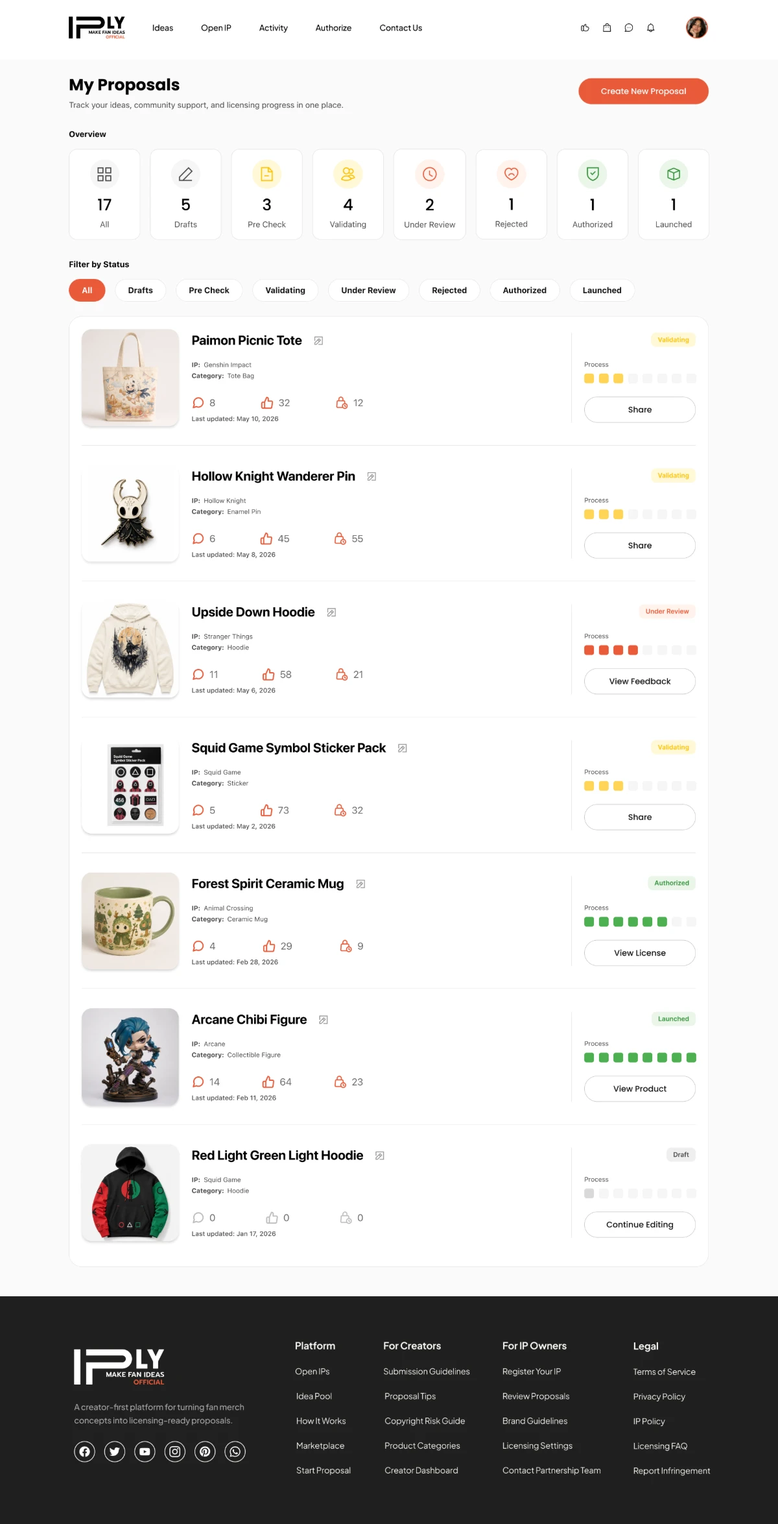
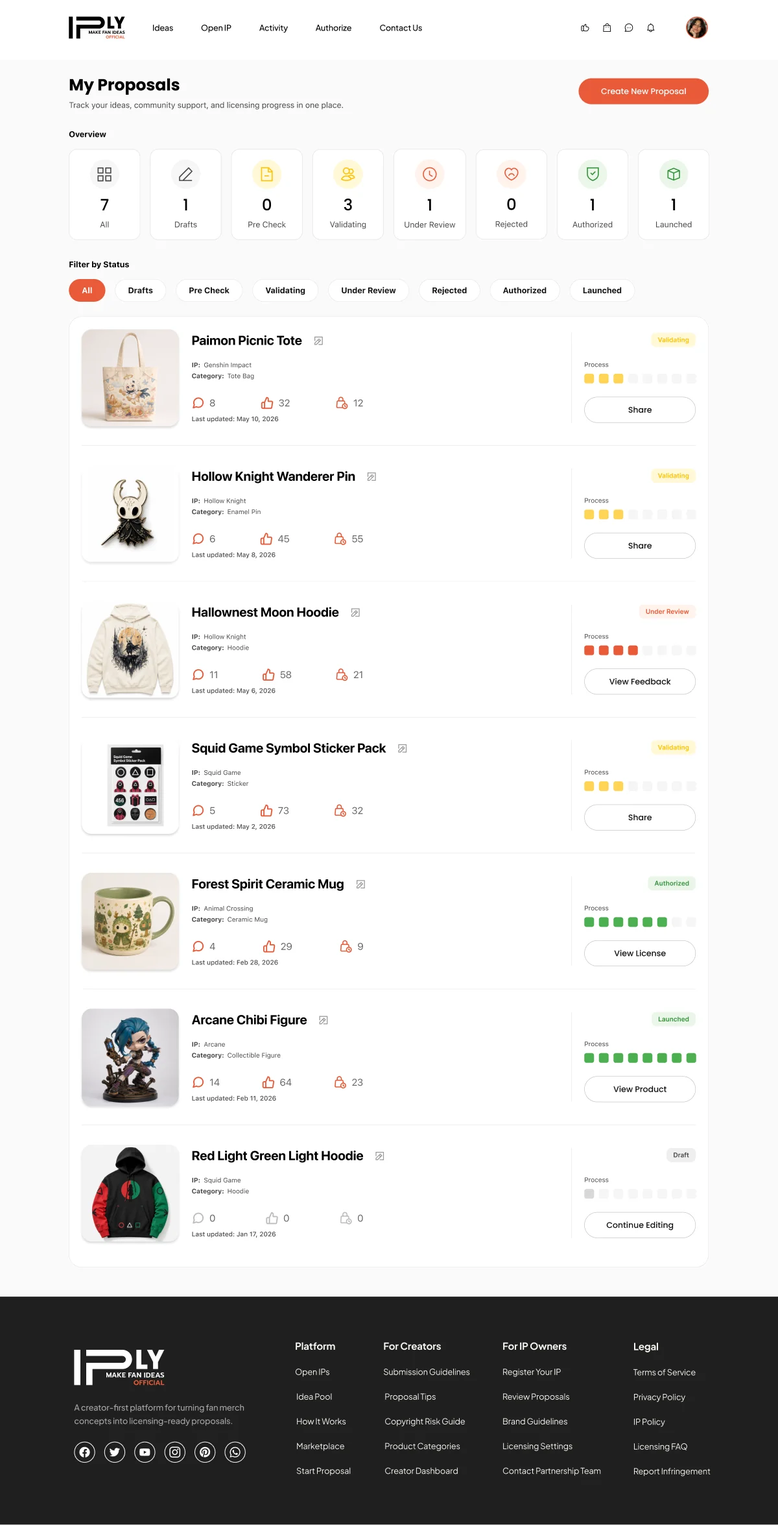
IPLY case study: creator landing and sign-up steps 2-3; boards re-exported after Figma text fixes

diff --git a/works/iply.html b/works/iply.html
@@ -12,7 +12,7 @@
 <meta property="og:url" content="https://weizhao-design.github.io/works/iply.html"><meta name="twitter:card" content="summary_large_image">
 <link rel="icon" id="wz-fav" href="../assets/favicon-dark.png?v=1" type="image/png"><link rel="apple-touch-icon" href="../assets/apple-touch-icon.png?v=1">
 <link rel="preload" href="../assets/fonts/cousine-400.woff2" as="font" type="font/woff2" crossorigin>
-<link rel="stylesheet" href="../assets/site.css?v=1794960000">
+<link rel="stylesheet" href="../assets/site.css?v=1794899200">
 <script>
 (function(){var d=document.documentElement,l='zh',th='dark';
 try{var q=new URLSearchParams(location.search).get('lang');if(q==='en'||q==='zh')localStorage.setItem('wz-lang',q);l=q||localStorage.getItem('wz-lang')||(/^zh/i.test(navigator.language||'')?'zh':'en');th=localStorage.getItem('wz-theme')||'dark';}catch(e){}
@@ -38,7 +38,7 @@ try{if(!sessionStorage.getItem('wz-loaded')&&!matchMedia('(prefers-reduced-motio
 <main class="project">
   <section class="meta"><div class="m-row"><span><span class="l-zh" lang="zh-Hans-CN">项目类型</span><span class="l-en" lang="en">Project type</span></span><span class="span2"><span class="l-zh" lang="zh-Hans-CN">平台产品策略项目</span><span class="l-en" lang="en">Platform product strategy</span></span></div><div class="m-row"><span><span class="l-zh" lang="zh-Hans-CN">项目名称</span><span class="l-en" lang="en">Project name</span></span><span class="span2"><span class="l-zh" lang="zh-Hans-CN">IPLY｜IP 共创与授权平台</span><span class="l-en" lang="en">IPLY — IP Co-creation &amp; Licensing Platform</span></span></div><div class="m-row"><span><span class="l-zh" lang="zh-Hans-CN">分类</span><span class="l-en" lang="en">Category</span></span><span class="span2"><span class="tag">[<span class="l-zh" lang="zh-Hans-CN">产品策略</span><span class="l-en" lang="en">Product strategy</span>]</span><span class="tag">[<span class="l-zh" lang="zh-Hans-CN">交互设计</span><span class="l-en" lang="en">Interaction design</span>]</span><span class="tag">[<span class="l-zh" lang="zh-Hans-CN">IP 生态</span><span class="l-en" lang="en">IP ecosystem</span>]</span><span class="tag">[<span class="l-zh" lang="zh-Hans-CN">粉丝社区</span><span class="l-en" lang="en">Fandom</span>]</span></span></div><div class="m-row"><span><span class="l-zh" lang="zh-Hans-CN">时间</span><span class="l-en" lang="en">Date</span></span><span class="span2">05.2026</span></div></section>
   <div class="p-grid">
-    <div class="p-main"><figure class="fig"><img src="../images/iply/00-hero.webp?v=1794459648" width="1800" height="1012" alt=""></figure><div class="sec-head tldr"><span>00</span><span><span class="l-zh" lang="zh-Hans-CN">概要</span><span class="l-en" lang="en">Overview</span></span><span class="sec-text"><span class="l-zh" lang="zh-Hans-CN"><b>问题</b>：粉丝创作者有好点子却没有合法的变现途径，粉丝买不到“懂圈子”的周边，IP 方也很难在投产前知道粉丝真正想要什么。<br><b>洞察</b>：三方缺的是同一样东西——在生产之前就能被验证的需求信号。<br><b>方案</b>：创作者按 IP 方开放的品类提交周边提案，先过自动预检，再由社区点赞、评论和预售意向验证需求；达标后进入 IP 方审核与授权，生产上架后创作者拿版税。<br><b>我的角色</b>：3 人团队中负责研究与策略（市场测算、竞品、商业模式）、体验（用户流程、旅程图）、全部高保真界面与视觉；课程结束后，借助 AI 编程工具把高保真搭成可点击原型并补齐缺失页面。<br>3 类用户 · 5 步提案 · 8 阶段进度 · 26 个可点击页面 · <a class="u" href="#demo">直接试玩 ↓</a></span><span class="l-en" lang="en"><b>Problem</b>: fan creators have ideas but no legal way to sell them, fans can’t find merch that gets the fandom, and IP owners can’t tell what fans want before they produce.<br><b>Insight</b>: all three sides lack the same thing — a demand signal that is proven before anything is made.<br><b>Design</b>: creators propose merch in the categories an IP owner has opened, pass an automatic pre-check, and the community validates demand with picks, comments and pre-order intents; proposals that hit their goal go to the IP owner for review and licensing, and creators earn royalties once it ships.<br><b>My role</b>: in a team of three — research and strategy (market sizing, competitors, business model), experience (user flow, journey map), all hi-fi UI and visual design; after the course I used AI coding tools to turn the hi-fi into a clickable prototype and fill in the missing screens.<br>3 user groups · 5-step proposal · 8-stage tracker · 26 clickable pages · <a class="u" href="#demo">Try the prototype ↓</a></span></span></div><div class="sec-head"><span>01</span><span><span class="l-zh" lang="zh-Hans-CN">三方问题</span><span class="l-en" lang="en">A three-sided problem</span></span><span class="sec-text"><span class="l-zh" lang="zh-Hans-CN">粉丝创作者有创意也有受众，却没有合法、门槛低的商业化途径；粉丝想要懂圈子、做工好的周边，现有选择却多是非官方或粗制滥造；IP 方缺少低风险的方式开发粉丝真正想要的周边，非官方周边还在侵蚀授权收入。仅 2024 年，Etsy 就因知识产权问题下架了约 83.2 万件商品。</span><span class="l-en" lang="en">Fan creators have ideas and audiences but no legal, accessible way to sell IP-inspired merch. Fans want well-made merch that gets the fandom, yet most options are unofficial or low quality. IP owners lack a low-risk way to make what fans actually want, while unofficial merch eats into licensing revenue. In 2024 alone, Etsy removed about 832,000 listings over IP issues.</span></span></div><div class="figs figs-stack"><figure class="fig"><img class="l-zh" src="../images/iply/01-zh.webp?v=1794740993" width="1800" height="1012" alt="" loading="lazy" decoding="async"><img class="l-en" src="../images/iply/01.webp?v=1794740443" width="1800" height="1012" alt="" loading="lazy" decoding="async"></figure><figure class="fig"><img class="l-zh" src="../images/iply/02-zh.webp?v=1794740993" width="1800" height="1012" alt="" loading="lazy" decoding="async"><img class="l-en" src="../images/iply/02.webp?v=1794459639" width="1800" height="1012" alt="" loading="lazy" decoding="async"></figure><figure class="fig"><img class="l-zh" src="../images/iply/03-zh.webp?v=1794740993" width="1800" height="1012" alt="" loading="lazy" decoding="async"><img class="l-en" src="../images/iply/03.webp?v=1794459639" width="1800" height="1012" alt="" loading="lazy" decoding="async"></figure></div><div class="sec-head"><span>02</span><span><span class="l-zh" lang="zh-Hans-CN">市场与竞争</span><span class="l-en" lang="en">Market &amp; competition</span></span><span class="sec-text"><span class="l-zh" lang="zh-Hans-CN">全球授权商品与服务市场约 3,696 亿美元，其中娱乐 / 角色类约 1,498 亿美元（TAM）；聚焦北美娱乐 / 角色授权商品，SAM 约 871 亿美元；按 0.5% 的可获得份额估算，SOM 为 4.35 亿美元交易额，按 10% 佣金约 4,350 万美元平台收入。竞品中，官方商店授权程度高但创作空间小，Etsy、Redbubble、Behance / Pinterest 创作灵活却没有授权通道，IPLY 瞄准两者兼具的空白。</span><span class="l-en" lang="en">The global licensed merchandise and services market is about $369.6B, with entertainment and character IP at $149.8B (TAM). Focusing on North American entertainment and character merch gives a SAM of about $87.1B; a 0.5% obtainable share puts the SOM at $435M in GMV, or about $43.5M in platform revenue at a 10% commission. Official stores are fully licensed but leave little creative room, while Etsy, Redbubble and Behance / Pinterest are creative but offer no licensing path. IPLY targets the gap that has both.</span></span></div><div class="figs figs-stack"><figure class="fig"><img class="l-zh" src="../images/iply/market-tam-zh.webp?v=1794740993" width="1800" height="1012" alt="" loading="lazy" decoding="async"><img class="l-en" src="../images/iply/market-tam.webp?v=1794739453" width="1800" height="1012" alt="" loading="lazy" decoding="async"></figure><figure class="fig"><img class="l-zh" src="../images/iply/market-sam-zh.webp?v=1794740993" width="1800" height="1012" alt="" loading="lazy" decoding="async"><img class="l-en" src="../images/iply/market-sam.webp?v=1794739453" width="1800" height="1012" alt="" loading="lazy" decoding="async"></figure><figure class="fig"><img class="l-zh" src="../images/iply/04-zh.webp?v=1794740993" width="1800" height="1012" alt="" loading="lazy" decoding="async"><img class="l-en" src="../images/iply/04.webp?v=1794738741" width="1800" height="1012" alt="" loading="lazy" decoding="async"></figure><figure class="fig"><img class="l-zh" src="../images/iply/05-zh.webp?v=1794740993" width="1800" height="1012" alt="" loading="lazy" decoding="async"><img class="l-en" src="../images/iply/05.webp?v=1794738741" width="1800" height="1012" alt="" loading="lazy" decoding="async"></figure></div><div class="sec-head"><span>03</span><span><span class="l-zh" lang="zh-Hans-CN">机会与用户</span><span class="l-en" lang="en">Opportunity &amp; users</span></span><span class="sec-text"><span class="l-zh" lang="zh-Hans-CN">问卷由团队成员执行：72% 的受访粉丝有创作或分享同人设计的经验，85% 愿意把自己的设计变成官方授权周边。样本量没有记录，所以这里只作为初步信号。三个 persona 分别代表创作者、粉丝和 IP 方。</span><span class="l-en" lang="en">In a survey run by a teammate, 72% of fans had created or shared fan designs and 85% would turn their own designs into officially licensed merch. The sample size wasn’t recorded, so treat these as preliminary signals. The three personas represent the creator, the fan and the IP owner.</span></span></div><div class="figs figs-stack"><figure class="fig"><img class="l-zh" src="../images/iply/06-zh.webp?v=1794740993" width="1800" height="1012" alt="" loading="lazy" decoding="async"><img class="l-en" src="../images/iply/06.webp?v=1794459640" width="1800" height="1012" alt="" loading="lazy" decoding="async"></figure><figure class="fig"><img class="l-zh" src="../images/iply/survey-zh.webp?v=1794740993" width="1800" height="1012" alt="" loading="lazy" decoding="async"><img class="l-en" src="../images/iply/survey.webp?v=1794740443" width="1800" height="1012" alt="" loading="lazy" decoding="async"></figure><figure class="fig"><img class="l-zh" src="../images/iply/07-zh.webp?v=1794740993" width="1800" height="1012" alt="" loading="lazy" decoding="async"><img class="l-en" src="../images/iply/07.webp?v=1794738741" width="1800" height="1012" alt="" loading="lazy" decoding="async"></figure></div><div class="sec-head"><span>04</span><span><span class="l-zh" lang="zh-Hans-CN">产品策略与核心流程</span><span class="l-en" lang="en">Strategy &amp; core flow</span></span><span class="sec-text"><span class="l-zh" lang="zh-Hans-CN">构思 → 提交 → 社区验证 → IP 方授权 → 生产上架，五步把粉丝创意变成官方商品。最后一张是完整的 user flow：创作者与粉丝、IP 方两条主线，以及顶部导航、头像菜单和回到首页的方式（点击图片可放大）。</span><span class="l-en" lang="en">Ideate → submit → community validation → IP approval → production: five steps from fan idea to official product. The last figure maps the full user flow — the creator and fan path, the IP owner path, and the header, avatar menu and ways back to the home page (click to enlarge).</span></span></div><div class="figs figs-stack"><figure class="fig"><img class="l-zh" src="../images/iply/08-zh.webp?v=1794740993" width="1800" height="1012" alt="" loading="lazy" decoding="async"><img class="l-en" src="../images/iply/08.webp?v=1794459640" width="1800" height="1012" alt="" loading="lazy" decoding="async"></figure><figure class="fig"><img class="l-zh" src="../images/iply/09-zh.webp?v=1794740993" width="1800" height="1012" alt="" loading="lazy" decoding="async"><img class="l-en" src="../images/iply/09.webp?v=1794459641" width="1800" height="1012" alt="" loading="lazy" decoding="async"></figure><figure class="fig"><img class="l-zh" src="../images/iply/10-zh.webp?v=1794740993" width="1800" height="1012" alt="" loading="lazy" decoding="async"><img class="l-en" src="../images/iply/10.webp?v=1794459641" width="1800" height="1012" alt="" loading="lazy" decoding="async"></figure><figure class="fig"><img class="l-zh" src="../images/iply/11-zh.webp?v=1794740993" width="1800" height="1012" alt="" loading="lazy" decoding="async"><img class="l-en" src="../images/iply/11.webp?v=1794459641" width="1800" height="1012" alt="" loading="lazy" decoding="async"></figure><figure class="fig"><img class="l-zh" src="../images/iply/journey-map-zh.webp?v=1794740993" width="1800" height="1012" alt="" loading="lazy" decoding="async"><img class="l-en" src="../images/iply/journey-map.webp?v=1794739889" width="1800" height="1012" alt="" loading="lazy" decoding="async"></figure><figure class="fig zoom"><img class="l-zh" src="../images/iply/user-flow-zh.webp?v=1" width="3000" height="2166" alt="IPLY 用户流程：创作者与粉丝从首页、注册、Ideas 到五步创建提案、验证与审核的路径；IP 方从首页到审核队列，可批准、要求修改或拒绝；以及顶部导航、头像菜单和回到首页的方式" loading="lazy" decoding="async"><img class="l-en" src="../images/iply/user-flow.webp?v=2" width="3000" height="2166" alt="IPLY user flow: creator and fan path from landing page, sign-up and Ideas through the five-step proposal, validation and review; IP owner path from owner landing to the review queue with approve, request revision or decline; plus header, avatar menu and the ways back to the landing page" loading="lazy" decoding="async"></figure></div><div class="sec-head"><span>05</span><span><span class="l-zh" lang="zh-Hans-CN">高保真原型</span><span class="l-en" lang="en">High-fidelity prototype</span></span><span class="sec-text"><span class="l-zh" lang="zh-Hans-CN">高保真围绕创作者的主流程：注册 → 选择 IP → 选择品类并上传设计 → 在 Ideas 页接受社区的投票、收藏与评论 → 在 My Proposals 中追踪提案从草稿、预检、社区验证到授权上架的每一步状态。另外为 IP 方单独设计了落地页，主打「先看到粉丝需求，再决定授权什么」。最后四页是视觉设计：Logo、色彩与字体、UI 组件，以及商品卡片。</span><span class="l-en" lang="en">The hi-fi follows the creator’s main path: sign up → choose an IP → pick a product type and upload the design → gather votes, saves and comments on the Ideas page → track each proposal in My Proposals, from draft and pre-check through community validation to licensing and launch. A separate landing page for IP owners leads with fan demand: see what fans want before deciding what to license. The last four boards cover the visual design: logo, colour and typography, UI components, and the product card.</span></span></div><div class="figs figs-tall"><figure class="fig"><img src="../images/iply/12.webp?v=1794459642" width="1800" height="977" alt="" loading="lazy" decoding="async"></figure><figure class="fig"><img src="../images/iply/13.webp?v=1794738741" width="1800" height="2676" alt="" loading="lazy" decoding="async"></figure><figure class="fig"><img src="../images/iply/proposal-step2.webp?v=1794766573" width="1200" height="2101" alt="" loading="lazy" decoding="async"></figure><figure class="fig"><img src="../images/iply/proposal-step3.webp?v=1794766573" width="1200" height="1535" alt="" loading="lazy" decoding="async"></figure><figure class="fig"><img src="../images/iply/ideas.webp?v=1794766573" width="1200" height="1975" alt="" loading="lazy" decoding="async"></figure><figure class="fig"><img src="../images/iply/14.webp?v=1794738741" width="1200" height="2678" alt="" loading="lazy" decoding="async"></figure><figure class="fig"><img src="../images/iply/15.webp?v=1794738741" width="1200" height="2349" alt="" loading="lazy" decoding="async"></figure><figure class="fig"><img src="../images/iply/landing-ip-owner.webp?v=1794766573" width="1200" height="3428" alt="" loading="lazy" decoding="async"></figure></div><div class="figs figs-stack"><figure class="fig"><img class="l-zh" src="../images/iply/visual-logo-zh.webp?v=1794767985" width="1800" height="1012" alt="" loading="lazy" decoding="async"><img class="l-en" src="../images/iply/visual-logo.webp?v=1794767985" width="1800" height="1012" alt="" loading="lazy" decoding="async"></figure><figure class="fig"><img class="l-zh" src="../images/iply/visual-colour-type-zh.webp?v=1794767985" width="1800" height="1012" alt="" loading="lazy" decoding="async"><img class="l-en" src="../images/iply/visual-colour-type.webp?v=1794767985" width="1800" height="1012" alt="" loading="lazy" decoding="async"></figure><figure class="fig"><img class="l-zh" src="../images/iply/visual-components-zh.webp?v=1794767985" width="1800" height="1012" alt="" loading="lazy" decoding="async"><img class="l-en" src="../images/iply/visual-components.webp?v=1794767985" width="1800" height="1012" alt="" loading="lazy" decoding="async"></figure><figure class="fig"><img class="l-zh" src="../images/iply/visual-product-card-zh.webp?v=1794767985" width="1800" height="1012" alt="" loading="lazy" decoding="async"><img class="l-en" src="../images/iply/visual-product-card.webp?v=1794767985" width="1800" height="1012" alt="" loading="lazy" decoding="async"></figure></div><div class="sec-head" id="demo"><span>06</span><span><span class="l-zh" lang="zh-Hans-CN">可交互原型：试一试</span><span class="l-en" lang="en">Interactive prototype: try it</span></span><span class="sec-text"><span class="l-zh" lang="zh-Hans-CN">根据 Figma 高保真搭建的可点击网站：注册三步 → 浏览 Ideas、选颜色、加入预售、评论 → 五步创建提案并通过自动预检 → 在 My Proposals 追踪进度 → 切到 IP 方视角批准提案，创作者那边的状态会同步变成 Authorized。Figma 里缺的第 4、5 步、预检界面、IP 方审核后台等都已补齐。数据只保存在本地浏览器。</span><span class="l-en" lang="en">A clickable site built from the Figma hi-fi: sign up in three steps → browse Ideas, switch colours, join a pre-order, comment → build a proposal in five steps with an automatic pre-check → track it in My Proposals → switch to the IP owner view and approve it, and the creator’s proposal flips to Authorized. Screens missing from Figma — steps 4–5, the pre-check, the IP owner review queue — are filled in. Data stays in your browser.</span></span></div><div class="figs figs-stack"><figure class="fig embed wide"><iframe data-lang-src="../iply-prototype/?frame=1" title="IPLY interactive prototype" loading="lazy"></iframe><figcaption><a class="u" href="../iply-prototype/" target="_blank" rel="noopener"><span class="l-zh" lang="zh-Hans-CN">在新窗口全屏打开 ↗</span><span class="l-en" lang="en">Open full screen in a new tab ↗</span></a></figcaption></figure></div><div class="sec-head"><span>07</span><span><span class="l-zh" lang="zh-Hans-CN">商业模式与路线图</span><span class="l-en" lang="en">Business model &amp; roadmap</span></span><span class="sec-text"><span class="l-zh" lang="zh-Hans-CN">收入来自三部分：交易佣金、IP 方的赞助活动与广告费，以及面向 IP 方的 B2B 订阅（需求数据与审核工具）。主要成本集中在产品研发、IP 审核与法律合规、社区运营、IP 方拓展，以及云服务、支付与客服。路线图分五个阶段：创作者提交与 IP 匹配 MVP → 社区验证系统 → IP 方审核后台 → 授权生产与销售上线 → 可扩展的 IP 周边生态。</span><span class="l-en" lang="en">Revenue comes from three streams: a commission on each sale, sponsored IP campaigns and advertising, and a B2B subscription that gives IP owners demand data and review tools. The main costs are product and engineering, IP review and legal compliance, community growth, IP-owner acquisition, and cloud, payment and support operations. The roadmap has five phases: a creator submission and IP-matching MVP → a community validation system → an IP owner approval portal → licensed production and sales → a scalable IP merch ecosystem.</span></span></div><div class="figs figs-stack"><figure class="fig"><img class="l-zh" src="../images/iply/16-zh.webp?v=1794740993" width="1800" height="1012" alt="" loading="lazy" decoding="async"><img class="l-en" src="../images/iply/16.webp?v=1794459647" width="1800" height="1012" alt="" loading="lazy" decoding="async"></figure><figure class="fig"><img class="l-zh" src="../images/iply/cost-zh.webp?v=1794767499" width="1800" height="1012" alt="" loading="lazy" decoding="async"><img class="l-en" src="../images/iply/cost.webp?v=1794767499" width="1800" height="1012" alt="" loading="lazy" decoding="async"></figure><figure class="fig"><img class="l-zh" src="../images/iply/17-zh.webp?v=1794740993" width="1800" height="1012" alt="" loading="lazy" decoding="async"><img class="l-en" src="../images/iply/17.webp?v=1794459647" width="1800" height="1012" alt="" loading="lazy" decoding="async"></figure></div></div>
+    <div class="p-main"><figure class="fig"><img src="../images/iply/00-hero.webp?v=1794459648" width="1800" height="1012" alt=""></figure><div class="sec-head tldr"><span>00</span><span><span class="l-zh" lang="zh-Hans-CN">概要</span><span class="l-en" lang="en">Overview</span></span><span class="sec-text"><span class="l-zh" lang="zh-Hans-CN"><b>问题</b>：粉丝创作者有好点子却没有合法的变现途径，粉丝买不到“懂圈子”的周边，IP 方也很难在投产前知道粉丝真正想要什么。<br><b>洞察</b>：三方缺的是同一样东西——在生产之前就能被验证的需求信号。<br><b>方案</b>：创作者按 IP 方开放的品类提交周边提案，先过自动预检，再由社区点赞、评论和预售意向验证需求；达标后进入 IP 方审核与授权，生产上架后创作者拿版税。<br><b>我的角色</b>：3 人团队中负责研究与策略（市场测算、竞品、商业模式）、体验（用户流程、旅程图）、全部高保真界面与视觉；课程结束后，借助 AI 编程工具把高保真搭成可点击原型并补齐缺失页面。<br>3 类用户 · 5 步提案 · 8 阶段进度 · 26 个可点击页面 · <a class="u" href="#demo">直接试玩 ↓</a></span><span class="l-en" lang="en"><b>Problem</b>: fan creators have ideas but no legal way to sell them, fans can’t find merch that gets the fandom, and IP owners can’t tell what fans want before they produce.<br><b>Insight</b>: all three sides lack the same thing — a demand signal that is proven before anything is made.<br><b>Design</b>: creators propose merch in the categories an IP owner has opened, pass an automatic pre-check, and the community validates demand with picks, comments and pre-order intents; proposals that hit their goal go to the IP owner for review and licensing, and creators earn royalties once it ships.<br><b>My role</b>: in a team of three — research and strategy (market sizing, competitors, business model), experience (user flow, journey map), all hi-fi UI and visual design; after the course I used AI coding tools to turn the hi-fi into a clickable prototype and fill in the missing screens.<br>3 user groups · 5-step proposal · 8-stage tracker · 26 clickable pages · <a class="u" href="#demo">Try the prototype ↓</a></span></span></div><div class="sec-head"><span>01</span><span><span class="l-zh" lang="zh-Hans-CN">三方问题</span><span class="l-en" lang="en">A three-sided problem</span></span><span class="sec-text"><span class="l-zh" lang="zh-Hans-CN">粉丝创作者有创意也有受众，却没有合法、门槛低的商业化途径；粉丝想要懂圈子、做工好的周边，现有选择却多是非官方或粗制滥造；IP 方缺少低风险的方式开发粉丝真正想要的周边，非官方周边还在侵蚀授权收入。仅 2024 年，Etsy 就因知识产权问题下架了约 83.2 万件商品。</span><span class="l-en" lang="en">Fan creators have ideas and audiences but no legal, accessible way to sell IP-inspired merch. Fans want well-made merch that gets the fandom, yet most options are unofficial or low quality. IP owners lack a low-risk way to make what fans actually want, while unofficial merch eats into licensing revenue. In 2024 alone, Etsy removed about 832,000 listings over IP issues.</span></span></div><div class="figs figs-stack"><figure class="fig"><img class="l-zh" src="../images/iply/01-zh.webp?v=1794740993" width="1800" height="1012" alt="" loading="lazy" decoding="async"><img class="l-en" src="../images/iply/01.webp?v=1794740443" width="1800" height="1012" alt="" loading="lazy" decoding="async"></figure><figure class="fig"><img class="l-zh" src="../images/iply/02-zh.webp?v=1794740993" width="1800" height="1012" alt="" loading="lazy" decoding="async"><img class="l-en" src="../images/iply/02.webp?v=1794459639" width="1800" height="1012" alt="" loading="lazy" decoding="async"></figure><figure class="fig"><img class="l-zh" src="../images/iply/03-zh.webp?v=1794740993" width="1800" height="1012" alt="" loading="lazy" decoding="async"><img class="l-en" src="../images/iply/03.webp?v=1794459639" width="1800" height="1012" alt="" loading="lazy" decoding="async"></figure></div><div class="sec-head"><span>02</span><span><span class="l-zh" lang="zh-Hans-CN">市场与竞争</span><span class="l-en" lang="en">Market &amp; competition</span></span><span class="sec-text"><span class="l-zh" lang="zh-Hans-CN">全球授权商品与服务市场约 3,696 亿美元，其中娱乐 / 角色类约 1,498 亿美元（TAM）；聚焦北美娱乐 / 角色授权商品，SAM 约 871 亿美元；按 0.5% 的可获得份额估算，SOM 为 4.35 亿美元交易额，按 10% 佣金约 4,350 万美元平台收入。竞品中，官方商店授权程度高但创作空间小，Etsy、Redbubble、Behance / Pinterest 创作灵活却没有授权通道，IPLY 瞄准两者兼具的空白。</span><span class="l-en" lang="en">The global licensed merchandise and services market is about $369.6B, with entertainment and character IP at $149.8B (TAM). Focusing on North American entertainment and character merch gives a SAM of about $87.1B; a 0.5% obtainable share puts the SOM at $435M in GMV, or about $43.5M in platform revenue at a 10% commission. Official stores are fully licensed but leave little creative room, while Etsy, Redbubble and Behance / Pinterest are creative but offer no licensing path. IPLY targets the gap that has both.</span></span></div><div class="figs figs-stack"><figure class="fig"><img class="l-zh" src="../images/iply/market-tam-zh.webp?v=1794740993" width="1800" height="1012" alt="" loading="lazy" decoding="async"><img class="l-en" src="../images/iply/market-tam.webp?v=1794739453" width="1800" height="1012" alt="" loading="lazy" decoding="async"></figure><figure class="fig"><img class="l-zh" src="../images/iply/market-sam-zh.webp?v=1794740993" width="1800" height="1012" alt="" loading="lazy" decoding="async"><img class="l-en" src="../images/iply/market-sam.webp?v=1794739453" width="1800" height="1012" alt="" loading="lazy" decoding="async"></figure><figure class="fig"><img class="l-zh" src="../images/iply/04-zh.webp?v=1794740993" width="1800" height="1012" alt="" loading="lazy" decoding="async"><img class="l-en" src="../images/iply/04.webp?v=1794738741" width="1800" height="1012" alt="" loading="lazy" decoding="async"></figure><figure class="fig"><img class="l-zh" src="../images/iply/05-zh.webp?v=1794740993" width="1800" height="1012" alt="" loading="lazy" decoding="async"><img class="l-en" src="../images/iply/05.webp?v=1794738741" width="1800" height="1012" alt="" loading="lazy" decoding="async"></figure></div><div class="sec-head"><span>03</span><span><span class="l-zh" lang="zh-Hans-CN">机会与用户</span><span class="l-en" lang="en">Opportunity &amp; users</span></span><span class="sec-text"><span class="l-zh" lang="zh-Hans-CN">问卷由团队成员执行：72% 的受访粉丝有创作或分享同人设计的经验，85% 愿意把自己的设计变成官方授权周边。样本量没有记录，所以这里只作为初步信号。三个 persona 分别代表创作者、粉丝和 IP 方。</span><span class="l-en" lang="en">In a survey run by a teammate, 72% of fans had created or shared fan designs and 85% would turn their own designs into officially licensed merch. The sample size wasn’t recorded, so treat these as preliminary signals. The three personas represent the creator, the fan and the IP owner.</span></span></div><div class="figs figs-stack"><figure class="fig"><img class="l-zh" src="../images/iply/06-zh.webp?v=1794740993" width="1800" height="1012" alt="" loading="lazy" decoding="async"><img class="l-en" src="../images/iply/06.webp?v=1794459640" width="1800" height="1012" alt="" loading="lazy" decoding="async"></figure><figure class="fig"><img class="l-zh" src="../images/iply/survey-zh.webp?v=1794740993" width="1800" height="1012" alt="" loading="lazy" decoding="async"><img class="l-en" src="../images/iply/survey.webp?v=1794740443" width="1800" height="1012" alt="" loading="lazy" decoding="async"></figure><figure class="fig"><img class="l-zh" src="../images/iply/07-zh.webp?v=1794740993" width="1800" height="1012" alt="" loading="lazy" decoding="async"><img class="l-en" src="../images/iply/07.webp?v=1794738741" width="1800" height="1012" alt="" loading="lazy" decoding="async"></figure></div><div class="sec-head"><span>04</span><span><span class="l-zh" lang="zh-Hans-CN">产品策略与核心流程</span><span class="l-en" lang="en">Strategy &amp; core flow</span></span><span class="sec-text"><span class="l-zh" lang="zh-Hans-CN">构思 → 提交 → 社区验证 → IP 方授权 → 生产上架，五步把粉丝创意变成官方商品。最后一张是完整的 user flow：创作者与粉丝、IP 方两条主线，以及顶部导航、头像菜单和回到首页的方式（点击图片可放大）。</span><span class="l-en" lang="en">Ideate → submit → community validation → IP approval → production: five steps from fan idea to official product. The last figure maps the full user flow — the creator and fan path, the IP owner path, and the header, avatar menu and ways back to the home page (click to enlarge).</span></span></div><div class="figs figs-stack"><figure class="fig"><img class="l-zh" src="../images/iply/08-zh.webp?v=1794740993" width="1800" height="1012" alt="" loading="lazy" decoding="async"><img class="l-en" src="../images/iply/08.webp?v=1794459640" width="1800" height="1012" alt="" loading="lazy" decoding="async"></figure><figure class="fig"><img class="l-zh" src="../images/iply/09-zh.webp?v=1794740993" width="1800" height="1012" alt="" loading="lazy" decoding="async"><img class="l-en" src="../images/iply/09.webp?v=1794459641" width="1800" height="1012" alt="" loading="lazy" decoding="async"></figure><figure class="fig"><img class="l-zh" src="../images/iply/10-zh.webp?v=1794740993" width="1800" height="1012" alt="" loading="lazy" decoding="async"><img class="l-en" src="../images/iply/10.webp?v=1794459641" width="1800" height="1012" alt="" loading="lazy" decoding="async"></figure><figure class="fig"><img class="l-zh" src="../images/iply/11-zh.webp?v=1794740993" width="1800" height="1012" alt="" loading="lazy" decoding="async"><img class="l-en" src="../images/iply/11.webp?v=1794459641" width="1800" height="1012" alt="" loading="lazy" decoding="async"></figure><figure class="fig"><img class="l-zh" src="../images/iply/journey-map-zh.webp?v=1794740993" width="1800" height="1012" alt="" loading="lazy" decoding="async"><img class="l-en" src="../images/iply/journey-map.webp?v=1794739889" width="1800" height="1012" alt="" loading="lazy" decoding="async"></figure><figure class="fig zoom"><img class="l-zh" src="../images/iply/user-flow-zh.webp?v=1" width="3000" height="2166" alt="IPLY 用户流程：创作者与粉丝从首页、注册、Ideas 到五步创建提案、验证与审核的路径；IP 方从首页到审核队列，可批准、要求修改或拒绝；以及顶部导航、头像菜单和回到首页的方式" loading="lazy" decoding="async"><img class="l-en" src="../images/iply/user-flow.webp?v=2" width="3000" height="2166" alt="IPLY user flow: creator and fan path from landing page, sign-up and Ideas through the five-step proposal, validation and review; IP owner path from owner landing to the review queue with approve, request revision or decline; plus header, avatar menu and the ways back to the landing page" loading="lazy" decoding="async"></figure></div><div class="sec-head"><span>05</span><span><span class="l-zh" lang="zh-Hans-CN">高保真原型</span><span class="l-en" lang="en">High-fidelity prototype</span></span><span class="sec-text"><span class="l-zh" lang="zh-Hans-CN">高保真围绕创作者的主流程：创作者落地页 → 三步注册（账号、年龄段、喜欢的 IP）→ 选择 IP → 选择品类并上传设计 → 在 Ideas 页接受社区的投票、收藏与评论 → 在 My Proposals 中追踪提案从草稿、预检、社区验证到授权上架的每一步状态。另外为 IP 方单独设计了落地页，主打「先看到粉丝需求，再决定授权什么」。最后四页是视觉设计：Logo、色彩与字体、UI 组件，以及商品卡片。</span><span class="l-en" lang="en">The hi-fi follows the creator’s main path: the creator landing page → a three-step sign-up (account, age group, favourite fandoms) → choose an IP → pick a product type and upload the design → gather votes, saves and comments on the Ideas page → track each proposal in My Proposals, from draft and pre-check through community validation to licensing and launch. A separate landing page for IP owners leads with fan demand: see what fans want before deciding what to license. The last four boards cover the visual design: logo, colour and typography, UI components, and the product card.</span></span></div><div class="figs figs-tall"><figure class="fig"><img src="../images/iply/landing-creator.webp?v=1794899134" width="1200" height="4810" alt="Creator landing page" loading="lazy" decoding="async"></figure><figure class="fig"><img src="../images/iply/landing-ip-owner.webp?v=1794899134" width="1200" height="3428" alt="" loading="lazy" decoding="async"></figure></div><div class="figs figs-3"><figure class="fig"><img src="../images/iply/12.webp?v=1794459642" width="1800" height="977" alt="" loading="lazy" decoding="async"></figure><figure class="fig"><img src="../images/iply/onboarding-2.webp?v=1794899134" width="1200" height="652" alt="Sign-up step 2: age group" loading="lazy" decoding="async"></figure><figure class="fig"><img src="../images/iply/onboarding-3.webp?v=1794899134" width="1200" height="652" alt="Sign-up step 3: pick fandoms" loading="lazy" decoding="async"></figure></div><div class="figs figs-tall"><figure class="fig"><img src="../images/iply/13.webp?v=1794738741" width="1800" height="2676" alt="" loading="lazy" decoding="async"></figure><figure class="fig"><img src="../images/iply/proposal-step2.webp?v=1794766573" width="1200" height="2101" alt="" loading="lazy" decoding="async"></figure><figure class="fig"><img src="../images/iply/proposal-step3.webp?v=1794766573" width="1200" height="1535" alt="" loading="lazy" decoding="async"></figure><figure class="fig"><img src="../images/iply/ideas.webp?v=1794899134" width="1200" height="1975" alt="" loading="lazy" decoding="async"></figure><figure class="fig"><img src="../images/iply/14.webp?v=1794899134" width="1200" height="2679" alt="" loading="lazy" decoding="async"></figure><figure class="fig"><img src="../images/iply/15.webp?v=1794899134" width="1200" height="2350" alt="" loading="lazy" decoding="async"></figure></div><div class="figs figs-stack"><figure class="fig"><img class="l-zh" src="../images/iply/visual-logo-zh.webp?v=1794767985" width="1800" height="1012" alt="" loading="lazy" decoding="async"><img class="l-en" src="../images/iply/visual-logo.webp?v=1794767985" width="1800" height="1012" alt="" loading="lazy" decoding="async"></figure><figure class="fig"><img class="l-zh" src="../images/iply/visual-colour-type-zh.webp?v=1794767985" width="1800" height="1012" alt="" loading="lazy" decoding="async"><img class="l-en" src="../images/iply/visual-colour-type.webp?v=1794767985" width="1800" height="1012" alt="" loading="lazy" decoding="async"></figure><figure class="fig"><img class="l-zh" src="../images/iply/visual-components-zh.webp?v=1794767985" width="1800" height="1012" alt="" loading="lazy" decoding="async"><img class="l-en" src="../images/iply/visual-components.webp?v=1794767985" width="1800" height="1012" alt="" loading="lazy" decoding="async"></figure><figure class="fig"><img class="l-zh" src="../images/iply/visual-product-card-zh.webp?v=1794767985" width="1800" height="1012" alt="" loading="lazy" decoding="async"><img class="l-en" src="../images/iply/visual-product-card.webp?v=1794767985" width="1800" height="1012" alt="" loading="lazy" decoding="async"></figure></div><div class="sec-head" id="demo"><span>06</span><span><span class="l-zh" lang="zh-Hans-CN">可交互原型：试一试</span><span class="l-en" lang="en">Interactive prototype: try it</span></span><span class="sec-text"><span class="l-zh" lang="zh-Hans-CN">根据 Figma 高保真搭建的可点击网站：注册三步 → 浏览 Ideas、选颜色、加入预售、评论 → 五步创建提案并通过自动预检 → 在 My Proposals 追踪进度 → 切到 IP 方视角批准提案，创作者那边的状态会同步变成 Authorized。Figma 里缺的第 4、5 步、预检界面、IP 方审核后台等都已补齐。数据只保存在本地浏览器。</span><span class="l-en" lang="en">A clickable site built from the Figma hi-fi: sign up in three steps → browse Ideas, switch colours, join a pre-order, comment → build a proposal in five steps with an automatic pre-check → track it in My Proposals → switch to the IP owner view and approve it, and the creator’s proposal flips to Authorized. Screens missing from Figma — steps 4–5, the pre-check, the IP owner review queue — are filled in. Data stays in your browser.</span></span></div><div class="figs figs-stack"><figure class="fig embed wide"><iframe data-lang-src="../iply-prototype/?frame=1" title="IPLY interactive prototype" loading="lazy"></iframe><figcaption><a class="u" href="../iply-prototype/" target="_blank" rel="noopener"><span class="l-zh" lang="zh-Hans-CN">在新窗口全屏打开 ↗</span><span class="l-en" lang="en">Open full screen in a new tab ↗</span></a></figcaption></figure></div><div class="sec-head"><span>07</span><span><span class="l-zh" lang="zh-Hans-CN">商业模式与路线图</span><span class="l-en" lang="en">Business model &amp; roadmap</span></span><span class="sec-text"><span class="l-zh" lang="zh-Hans-CN">收入来自三部分：交易佣金、IP 方的赞助活动与广告费，以及面向 IP 方的 B2B 订阅（需求数据与审核工具）。主要成本集中在产品研发、IP 审核与法律合规、社区运营、IP 方拓展，以及云服务、支付与客服。路线图分五个阶段：创作者提交与 IP 匹配 MVP → 社区验证系统 → IP 方审核后台 → 授权生产与销售上线 → 可扩展的 IP 周边生态。</span><span class="l-en" lang="en">Revenue comes from three streams: a commission on each sale, sponsored IP campaigns and advertising, and a B2B subscription that gives IP owners demand data and review tools. The main costs are product and engineering, IP review and legal compliance, community growth, IP-owner acquisition, and cloud, payment and support operations. The roadmap has five phases: a creator submission and IP-matching MVP → a community validation system → an IP owner approval portal → licensed production and sales → a scalable IP merch ecosystem.</span></span></div><div class="figs figs-stack"><figure class="fig"><img class="l-zh" src="../images/iply/16-zh.webp?v=1794740993" width="1800" height="1012" alt="" loading="lazy" decoding="async"><img class="l-en" src="../images/iply/16.webp?v=1794459647" width="1800" height="1012" alt="" loading="lazy" decoding="async"></figure><figure class="fig"><img class="l-zh" src="../images/iply/cost-zh.webp?v=1794767499" width="1800" height="1012" alt="" loading="lazy" decoding="async"><img class="l-en" src="../images/iply/cost.webp?v=1794767499" width="1800" height="1012" alt="" loading="lazy" decoding="async"></figure><figure class="fig"><img class="l-zh" src="../images/iply/17-zh.webp?v=1794740993" width="1800" height="1012" alt="" loading="lazy" decoding="async"><img class="l-en" src="../images/iply/17.webp?v=1794459647" width="1800" height="1012" alt="" loading="lazy" decoding="async"></figure></div></div>
     <aside class="p-side"><div class="sticky"><p><span class="l-zh" lang="zh-Hans-CN">IPLY 是一个连接粉丝创作者与 IP 方的周边共创与授权平台。粉丝提交周边提案，由社区投票与预售验证需求，再交给 IP 方审核授权并生产上架，探索如何让粉丝创意以合规、可持续的方式变成官方商品。</span><span class="l-en" lang="en">IPLY is a co-creation and licensing platform connecting fan creators with IP owners. Fans submit merch proposals, the community validates demand through votes and pre-orders, and IP owners approve and license them for production — exploring how fan creativity can become official products in a legitimate, sustainable way.</span></p><p class="dim">※ <span class="l-zh" lang="zh-Hans-CN">概念项目，页面中出现的 IP 名称仅作示意，与相关 IP 方无合作。</span><span class="l-en" lang="en">Concept project. IP names shown are illustrative only; no affiliation with the rights holders.</span></p><nav class="toc" data-toc aria-label="Sections"></nav></div></aside>
   </div>
   <section class="meta p-foot"><div class="m-row"><span><span class="l-zh" lang="zh-Hans-CN">项目性质</span><span class="l-en" lang="en">Format</span></span><span class="span2"><span class="l-zh" lang="zh-Hans-CN">课程项目 · 3 人团队</span><span class="l-en" lang="en">Course project · Team of 3</span></span></div><div class="m-row"><span><span class="l-zh" lang="zh-Hans-CN">团队</span><span class="l-en" lang="en">Team</span></span><span class="span2"><span class="l-zh" lang="zh-Hans-CN">Wei Zhao、Dingrui Yu、Xiaohe Yu</span><span class="l-en" lang="en">Wei Zhao, Dingrui Yu, Xiaohe Yu</span></span></div><div class="m-row"><span><span class="l-zh" lang="zh-Hans-CN">我的职责</span><span class="l-en" lang="en">My role</span></span><span class="span2"><span class="l-zh" lang="zh-Hans-CN">研究与策略：前期研究、二手研究、市场规模测算（TAM / SAM / SOM）、竞品分析、SCAMPER、Lean Canvas、商业模式与路线图<br>体验设计：用户流程、旅程地图、故事板<br>视觉与界面：Logo 与组件、全部高保真界面、项目全部素材图（使用 ChatGPT 生成）、部分 Figma 原型动效，以及整套 PPT 的视觉把控</span><span class="l-en" lang="en">Research &amp; strategy: early research, secondary research, market sizing (TAM / SAM / SOM), competitive analysis, SCAMPER, Lean Canvas, business model and roadmap<br>Experience: user flow, journey map, storyboard<br>Visual &amp; UI: logo and components, all hi-fi screens, all project imagery (generated with ChatGPT), some Figma prototype animations, and visual direction for the whole deck</span></span></div><div class="m-row"><span><span class="l-zh" lang="zh-Hans-CN">课程</span><span class="l-en" lang="en">Course</span></span><span class="span2">IXDS 708 Product Strategy &amp; Storytelling · SCAD</span></div><div class="m-row"><span><span class="l-zh" lang="zh-Hans-CN">周期</span><span class="l-en" lang="en">Timeline</span></span><span class="span2">2026.03 – 2026.05</span></div><div class="m-row"><span><span class="l-zh" lang="zh-Hans-CN">工具</span><span class="l-en" lang="en">Tools</span></span><span class="span2">Figma · ChatGPT · Market sizing (TAM / SAM / SOM)</span></div><div class="m-row pager"><span></span><span class="span2"><a href="petsignals.html">‹ PREVIOUS</a><a href="bloom-near-you.html">NEXT ›</a></span></div></section>

diff --git a/assets/site.css b/assets/site.css
@@ -282,6 +282,7 @@ html:not(.lang-en) .lang-toggle [data-v="zh"], html.lang-en .lang-toggle [data-v
 .fig.embed.wide iframe { width: 100%; aspect-ratio: auto; height: min(78vh, 760px); border: 1px solid rgba(127,127,127,.28); border-radius: 10px; background: #F2F4F8; }
 .figs-tall { grid-template-columns: repeat(2, minmax(0, 1fr)); align-items: start; }
 .figs-tall .fig { max-height: 1000px; overflow-y: auto; scrollbar-width: thin; }
+.figs-3 { grid-template-columns: repeat(3, minmax(0, 1fr)); align-items: start; }
 
 .sec-head { display: grid; grid-template-columns: repeat(3, minmax(0, 1fr)); column-gap: var(--tg); padding: 40px 0 0; }
 .sec-head > :first-child { grid-column: 1; grid-row: 1; }
@@ -347,6 +348,7 @@ html:not(.lang-en) .lang-toggle [data-v="zh"], html.lang-en .lang-toggle [data-v
   .sec-head { grid-template-columns: 1fr; row-gap: 6px; }
   .sec-head .sec-text { grid-column: 1; grid-row: 2; }
   .figs-tall { grid-template-columns: 1fr; }
+  .figs-3 { grid-template-columns: 1fr; }
   .p-foot { padding-top: 20px; }
 
   .info { display: block; padding-top: 28px; }
